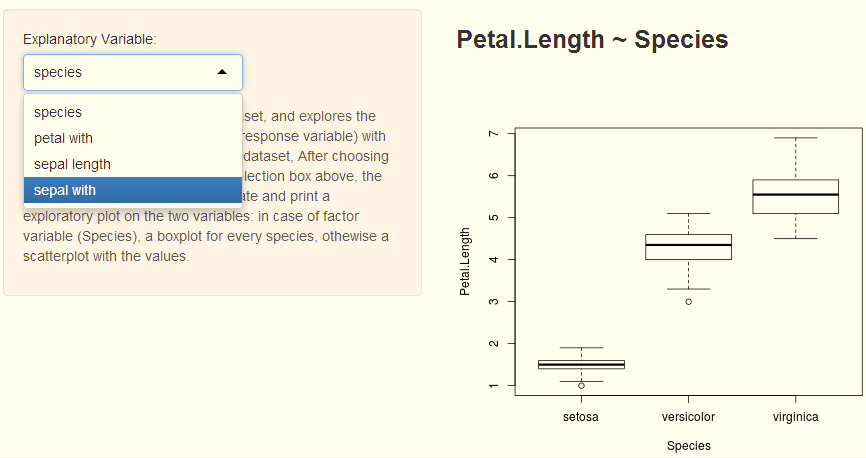
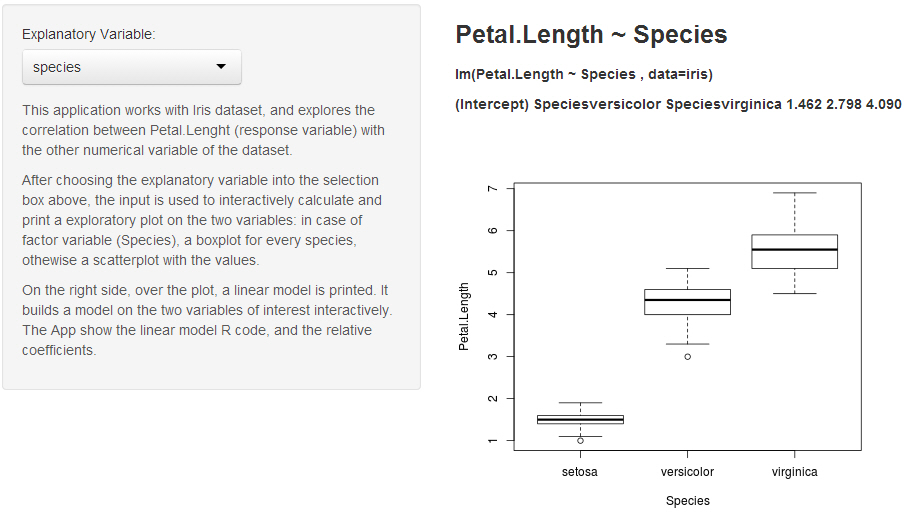
third commit

diff --git a/index.html b/index.html
@@ -99,11 +99,20 @@ str(iris)
   <article data-timings="">
     <p>Into the server file, we define a reactive function to read the input variable and build the string used for plotting. </p>
 
-<pre><code class="r">shinyServer(function(input, output) {
+<pre><code class="r">shinyServer(function(input, output) { formulaText &lt;- reactive({
+    paste(&quot;Petal.Length ~ &quot;, input$explanatoryvariable) })})
+</code></pre>
 
-  formulaText &lt;- reactive({
-    paste(&quot;Petal.Length ~ &quot;, input$explanatoryvariable)
-  })})
+<p>In addiction, a linear model is printed. It is builded interactively on the two variables of interest. The App show the linear model R code, and the relative coefficients:&quot;</p>
+
+<pre><code class=", eval = F">formulaText1 &lt;- reactive({
+    paste(&quot;lm(Petal.Length ~ &quot;, input$explanatoryvariable, &quot;, data=iris)&quot;)
+  })
+  output$lm &lt;- ({  renderText(formulaText1() )})  
+
+  formulaText2 &lt;- reactive({
+    eval(parse(text=paste(&quot;lm(Petal.Length ~ &quot;, input$explanatoryvariable, &quot;, data=iris)&quot;)))$coef
+  })
 </code></pre>
 
   </article>
@@ -115,7 +124,7 @@ str(iris)
     <h3>Result :</h3>
   </hgroup>
   <article data-timings="">
-    <p>Last, the plot command is called using the string containing the response variable and the explanatory variable already setted:</p>
+    <p>The plot command is called using the string containing the response variable and the explanatory variable already setted:</p>
 
 <pre><code class="r">plot(as.formula(formulaText()),  data = iris)
 </code></pre>

diff --git a/index.md b/index.md
@@ -62,19 +62,28 @@ library(shiny); p <- plotOutput("speciesplot"); print(p)
 
 Into the server file, we define a reactive function to read the input variable and build the string used for plotting. 
 
-
 ```r
-shinyServer(function(input, output) {
-  
-  formulaText <- reactive({
-    paste("Petal.Length ~ ", input$explanatoryvariable)
-  })})
+shinyServer(function(input, output) { formulaText <- reactive({
+    paste("Petal.Length ~ ", input$explanatoryvariable) })})
 ```
+In addiction, a linear model is printed. It is builded interactively on the two variables of interest. The App show the linear model R code, and the relative coefficients:"
+
+```{, eval = F}
+formulaText1 <- reactive({
+    paste("lm(Petal.Length ~ ", input$explanatoryvariable, ", data=iris)")
+  })
+  output$lm <- ({  renderText(formulaText1() )})  
+
+  formulaText2 <- reactive({
+    eval(parse(text=paste("lm(Petal.Length ~ ", input$explanatoryvariable, ", data=iris)")))$coef
+  })
+```
+
 
 --- .class #id 
 
 ### Result :
-Last, the plot command is called using the string containing the response variable and the explanatory variable already setted:
+The plot command is called using the string containing the response variable and the explanatory variable already setted:
 
 ```r
 plot(as.formula(formulaText()),  data = iris)
